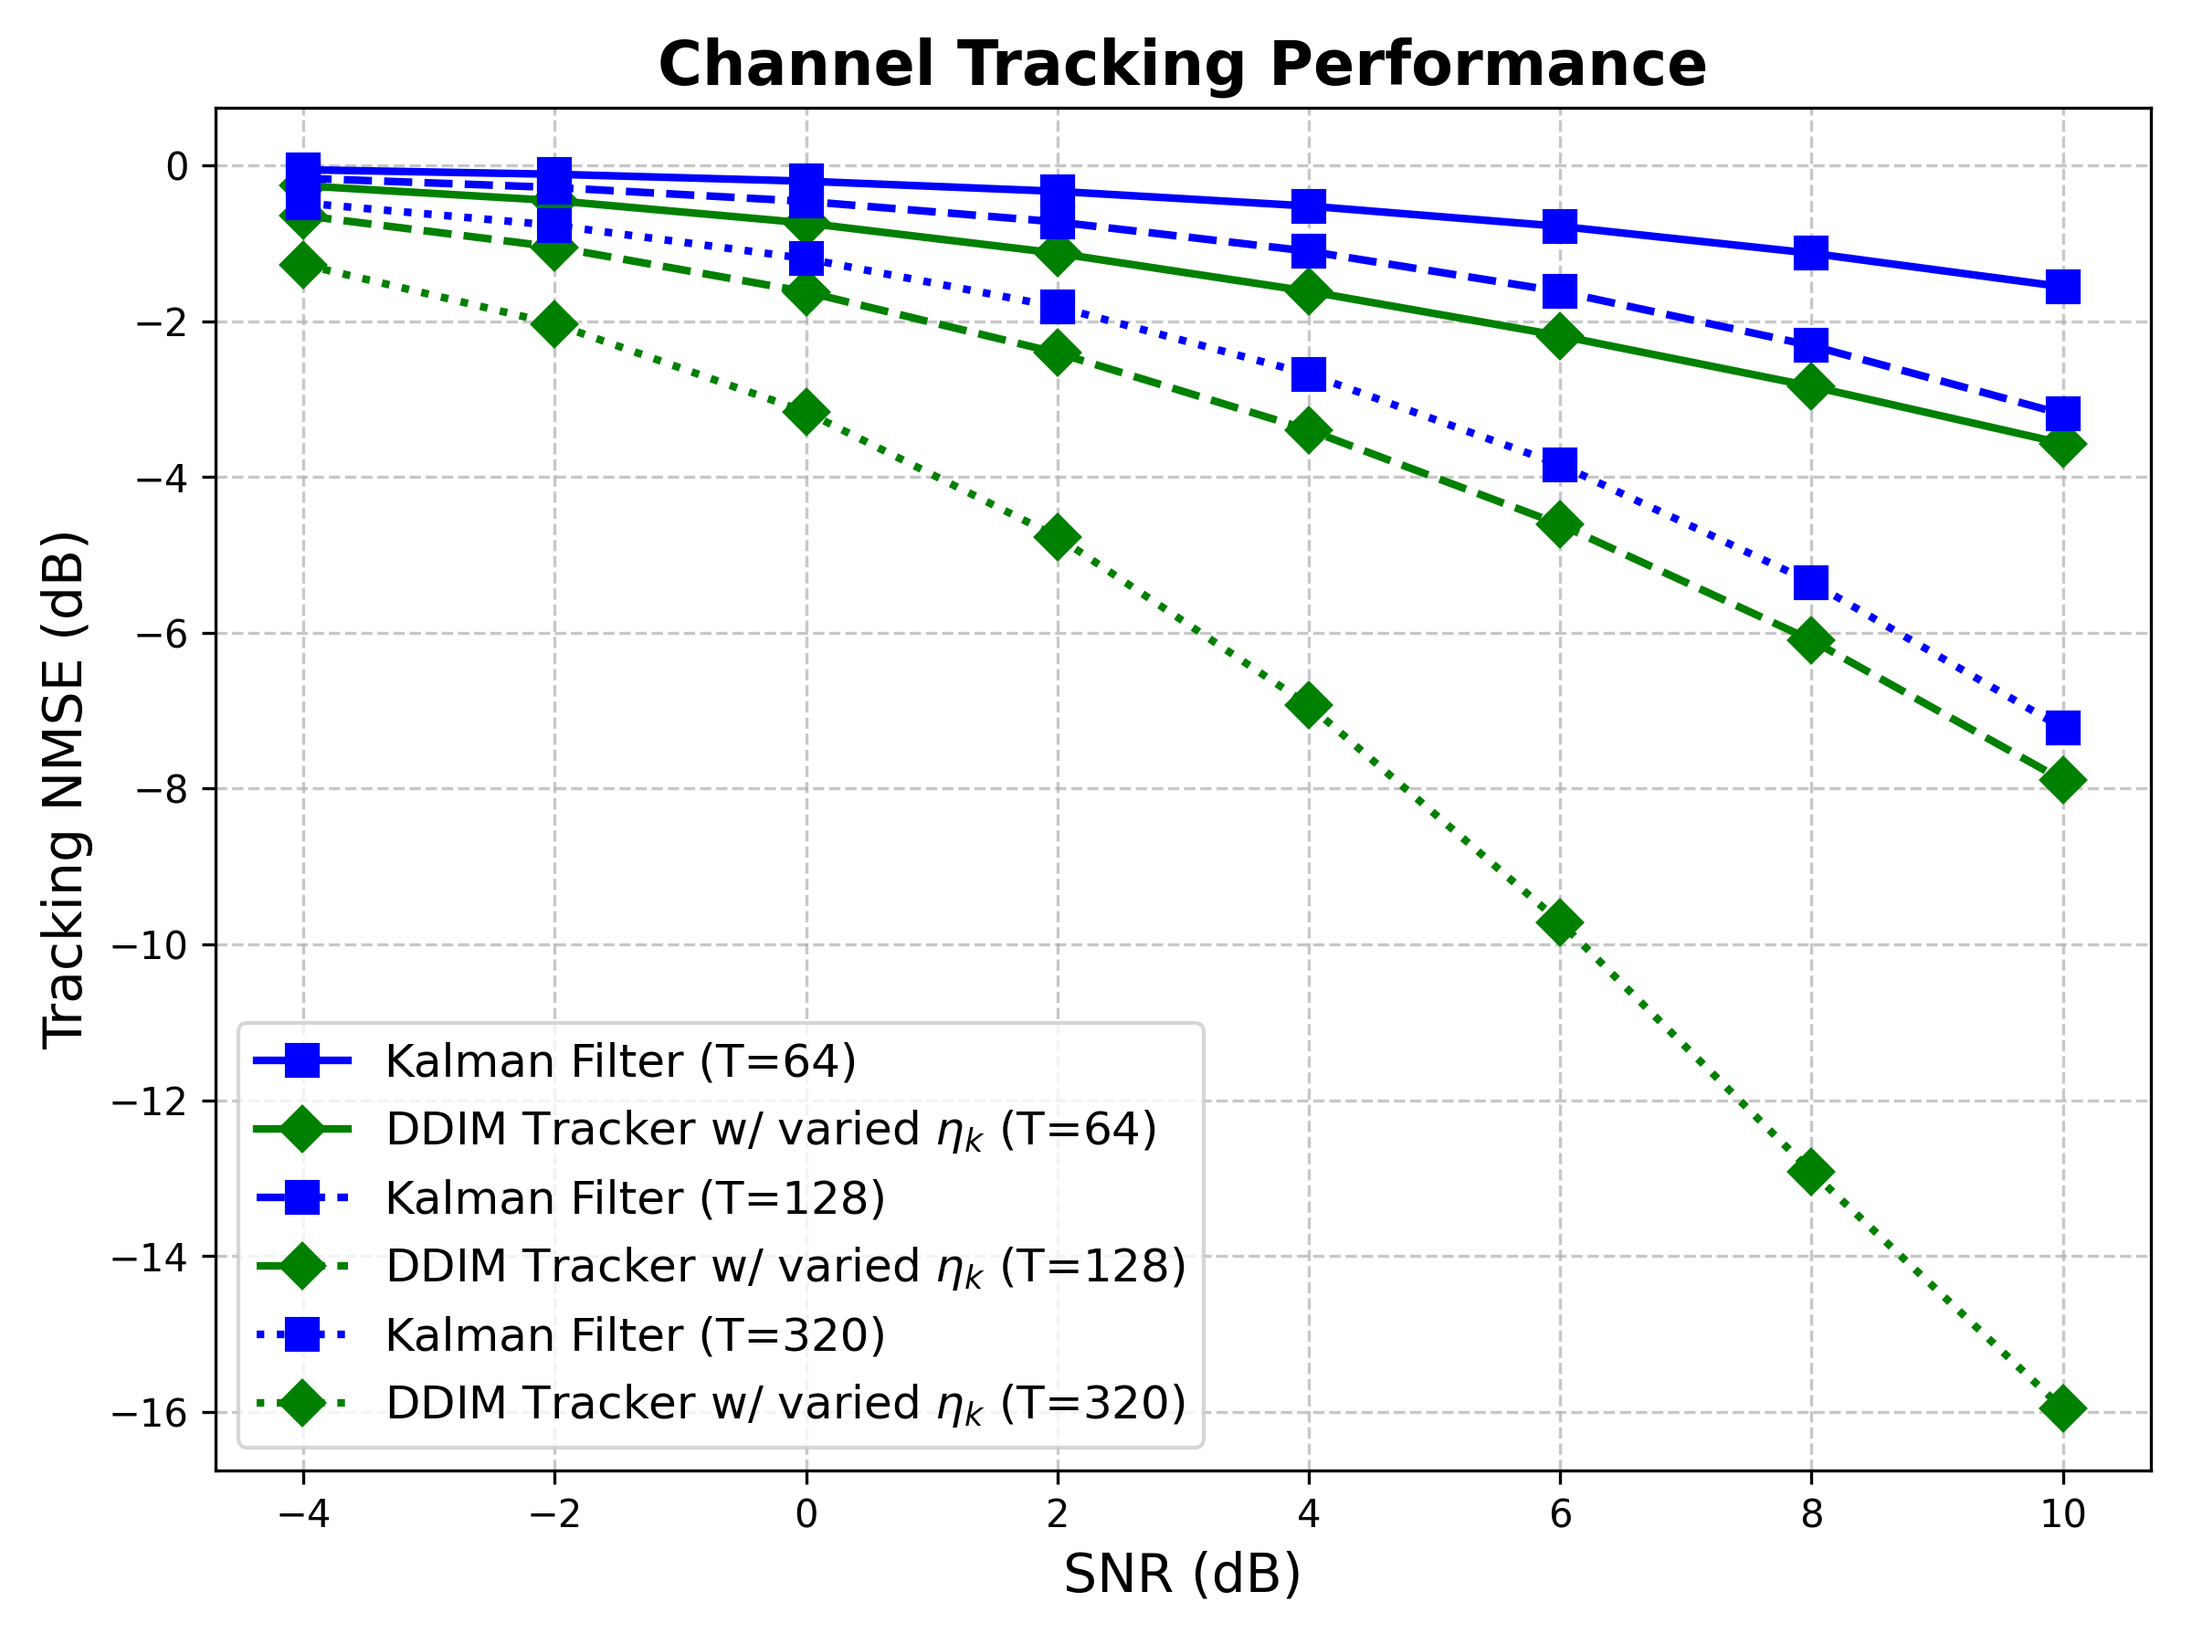
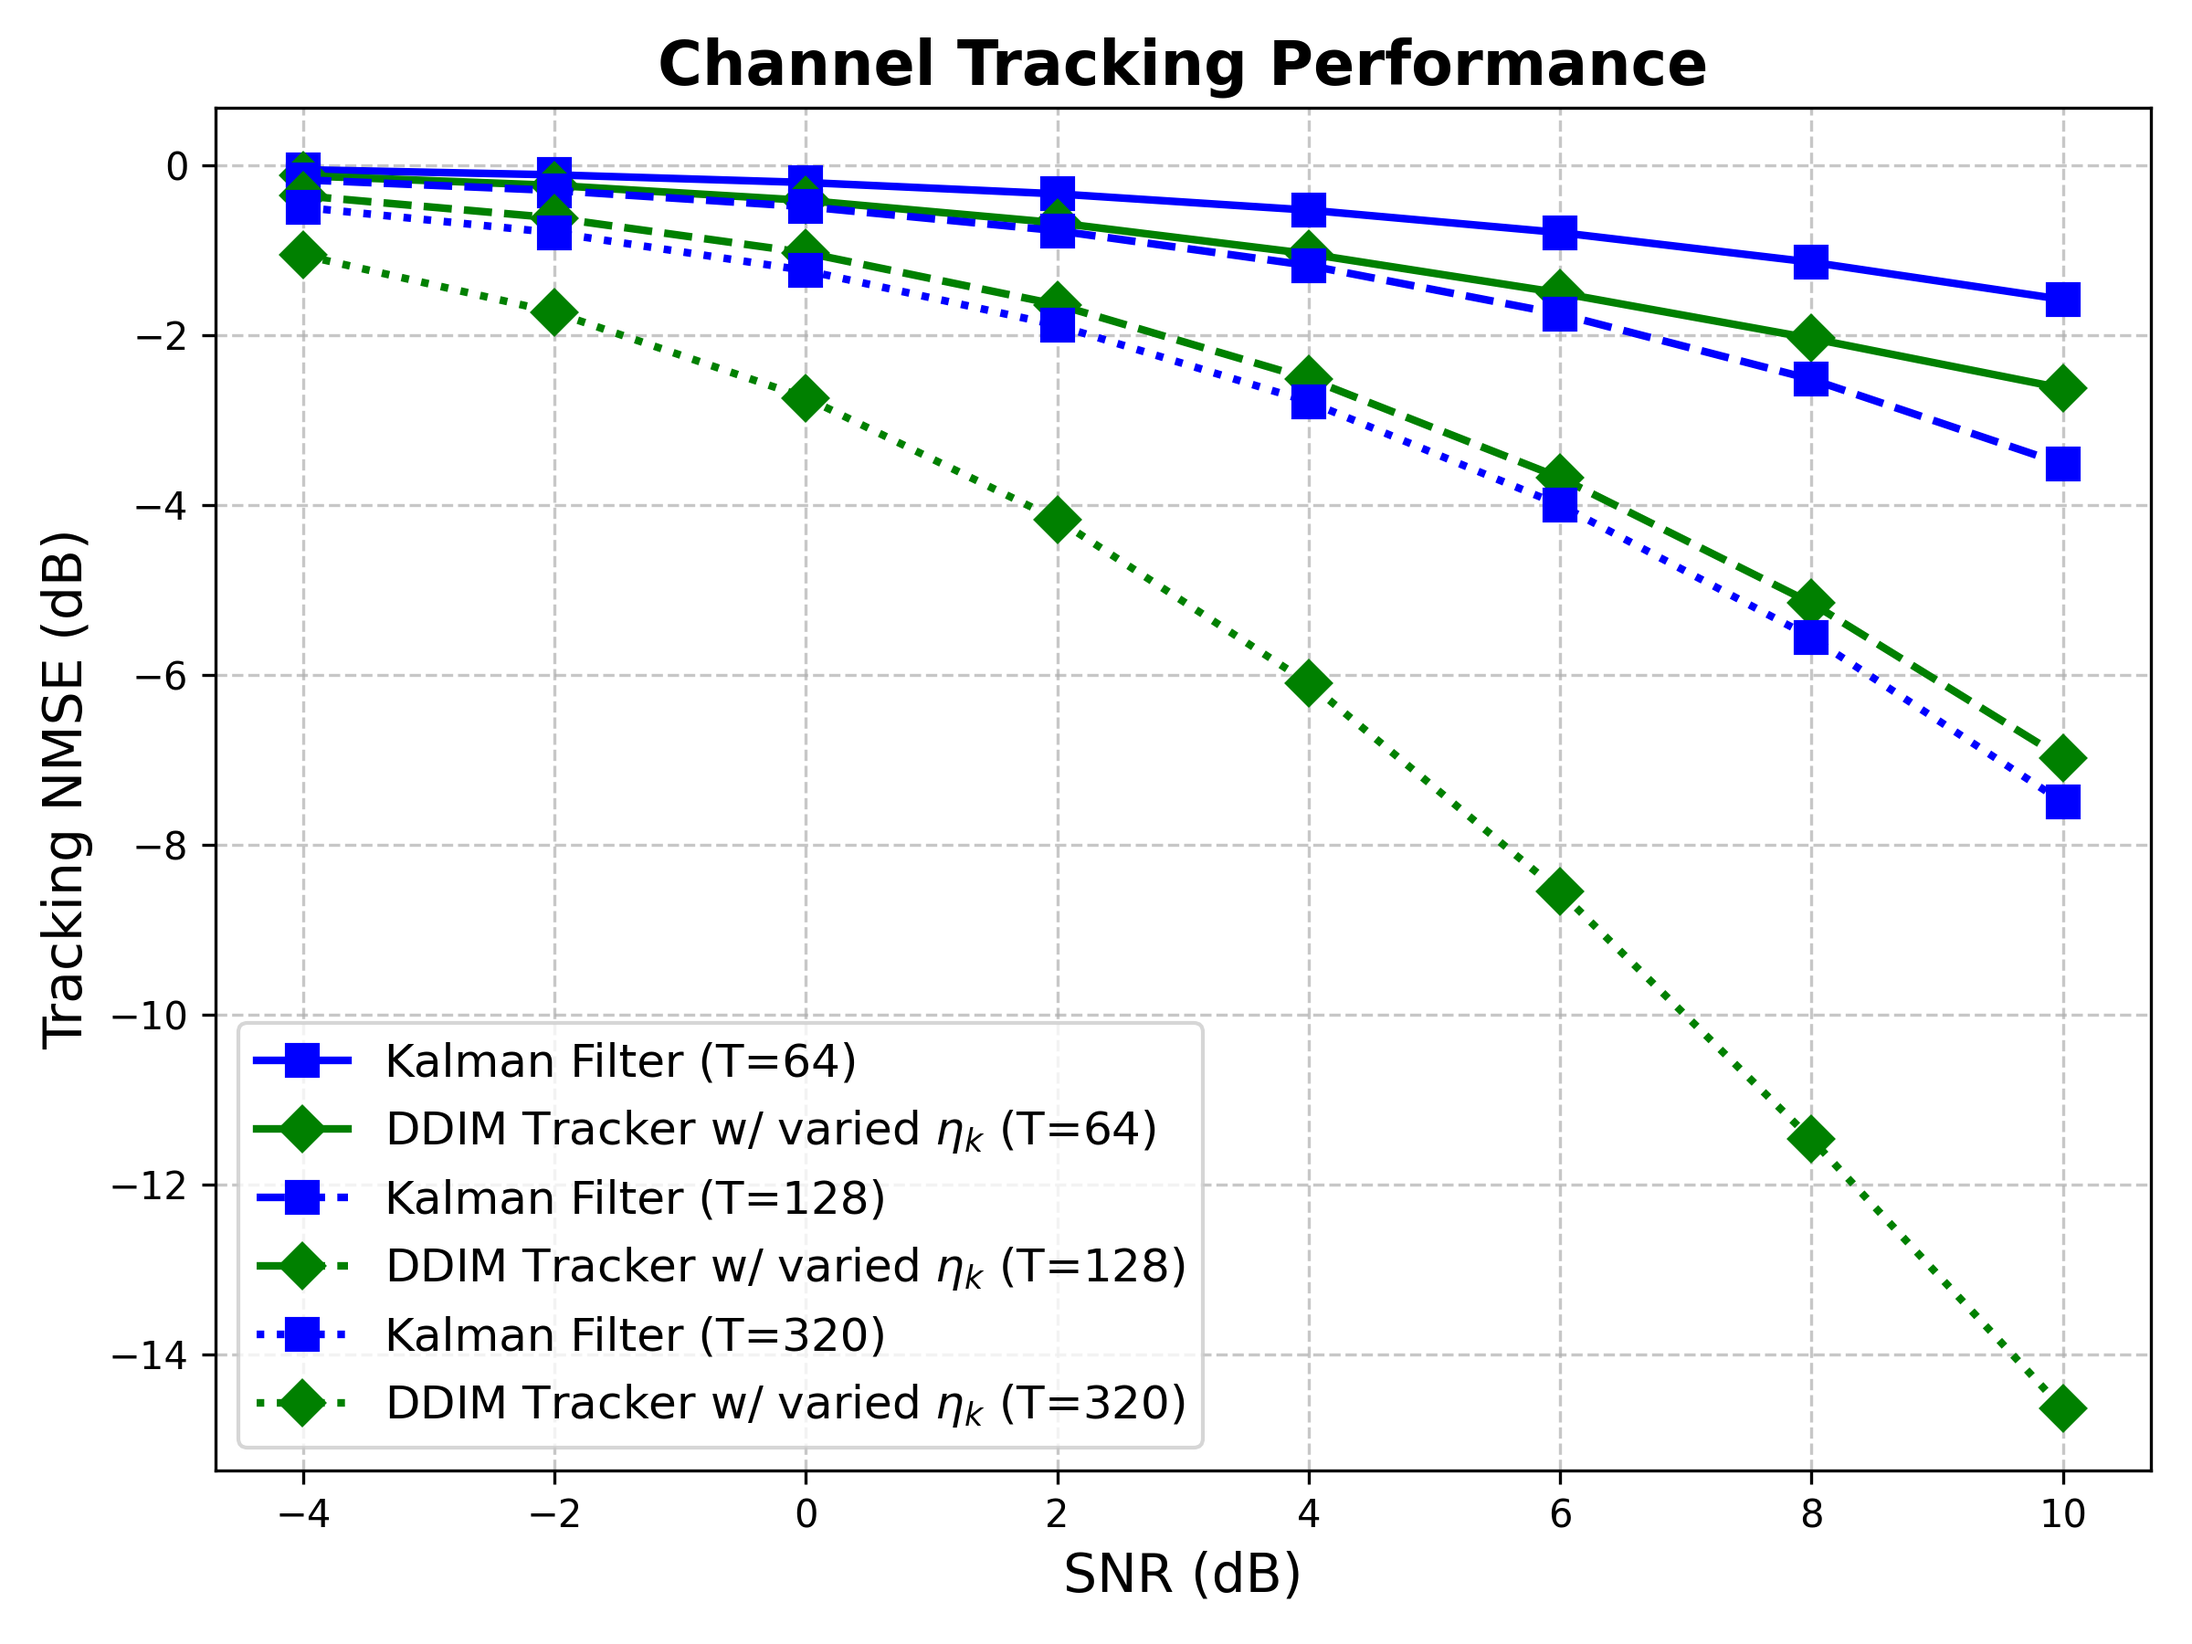
feat(numPilots): update the nmse vs number of pilots (T) with new process equation

diff --git a/small_scale_channel_tracking/data/generate_tracking_test_dataset_nondiag.py b/small_scale_channel_tracking/data/generate_tracking_test_dataset_nondiag.py
@@ -25,8 +25,8 @@ SNR_LEVELS = [-4, -2, 0, 2, 4, 6, 8, 10]
 # Tracking Physics Parameters
 RHO = 0.1034       # Base temporal correlation
 OFF_DIAG_STD = 0.2 # Standard deviation of the off-diagonal leakage
-NUM_PILOTS = 64   # T >= r_T
-MODE = 'modal' # 'spatial' or 'modal'
+NUM_PILOTS = 64*20   # T >= r_T
+MODE = 'spatial' # 'spatial' or 'modal'
 
 # Input Paths
 CHANNEL_FILE = os.path.join(SCRIPT_DIR, "channel", f"channel_data_SC_{FREQ_GHZ}GHz_{TX_DIM[0]}x{TX_DIM[1]}Tx_{RX_DIM[0]}x{RX_DIM[1]}Rx_{NUM_TEST_SAMPLES}samples.mat")

diff --git a/small_scale_channel_tracking/test_baseline_kalman_filter.py b/small_scale_channel_tracking/test_baseline_kalman_filter.py
@@ -11,7 +11,7 @@ SNR_LEVELS = [-4, -2, 0, 2, 4, 6, 8, 10]
 RHO = 0.1034
 FREQ_GHZ = 12
 R_T = 64
-NUM_PILOTS = 64
+NUM_PILOTS = 64*20
 MODE = 'spatial' # 'spatial' or 'modal'
 
 SCRIPT_DIR = os.path.dirname(os.path.abspath(__file__))

diff --git a/small_scale_channel_tracking/main_DDIM_tracker.py b/small_scale_channel_tracking/main_DDIM_tracker.py
@@ -17,7 +17,7 @@ R_T = 64
 NUM_SAMPLES = 1000000
 CUDA = 0
 CHAN_MODE = 'spatial' # 'spatial' or 'modal'
-NUM_PILOTS = 64
+NUM_PILOTS = 64*20
 
 # Training settings
 NUM_EPOCHS = 10000
